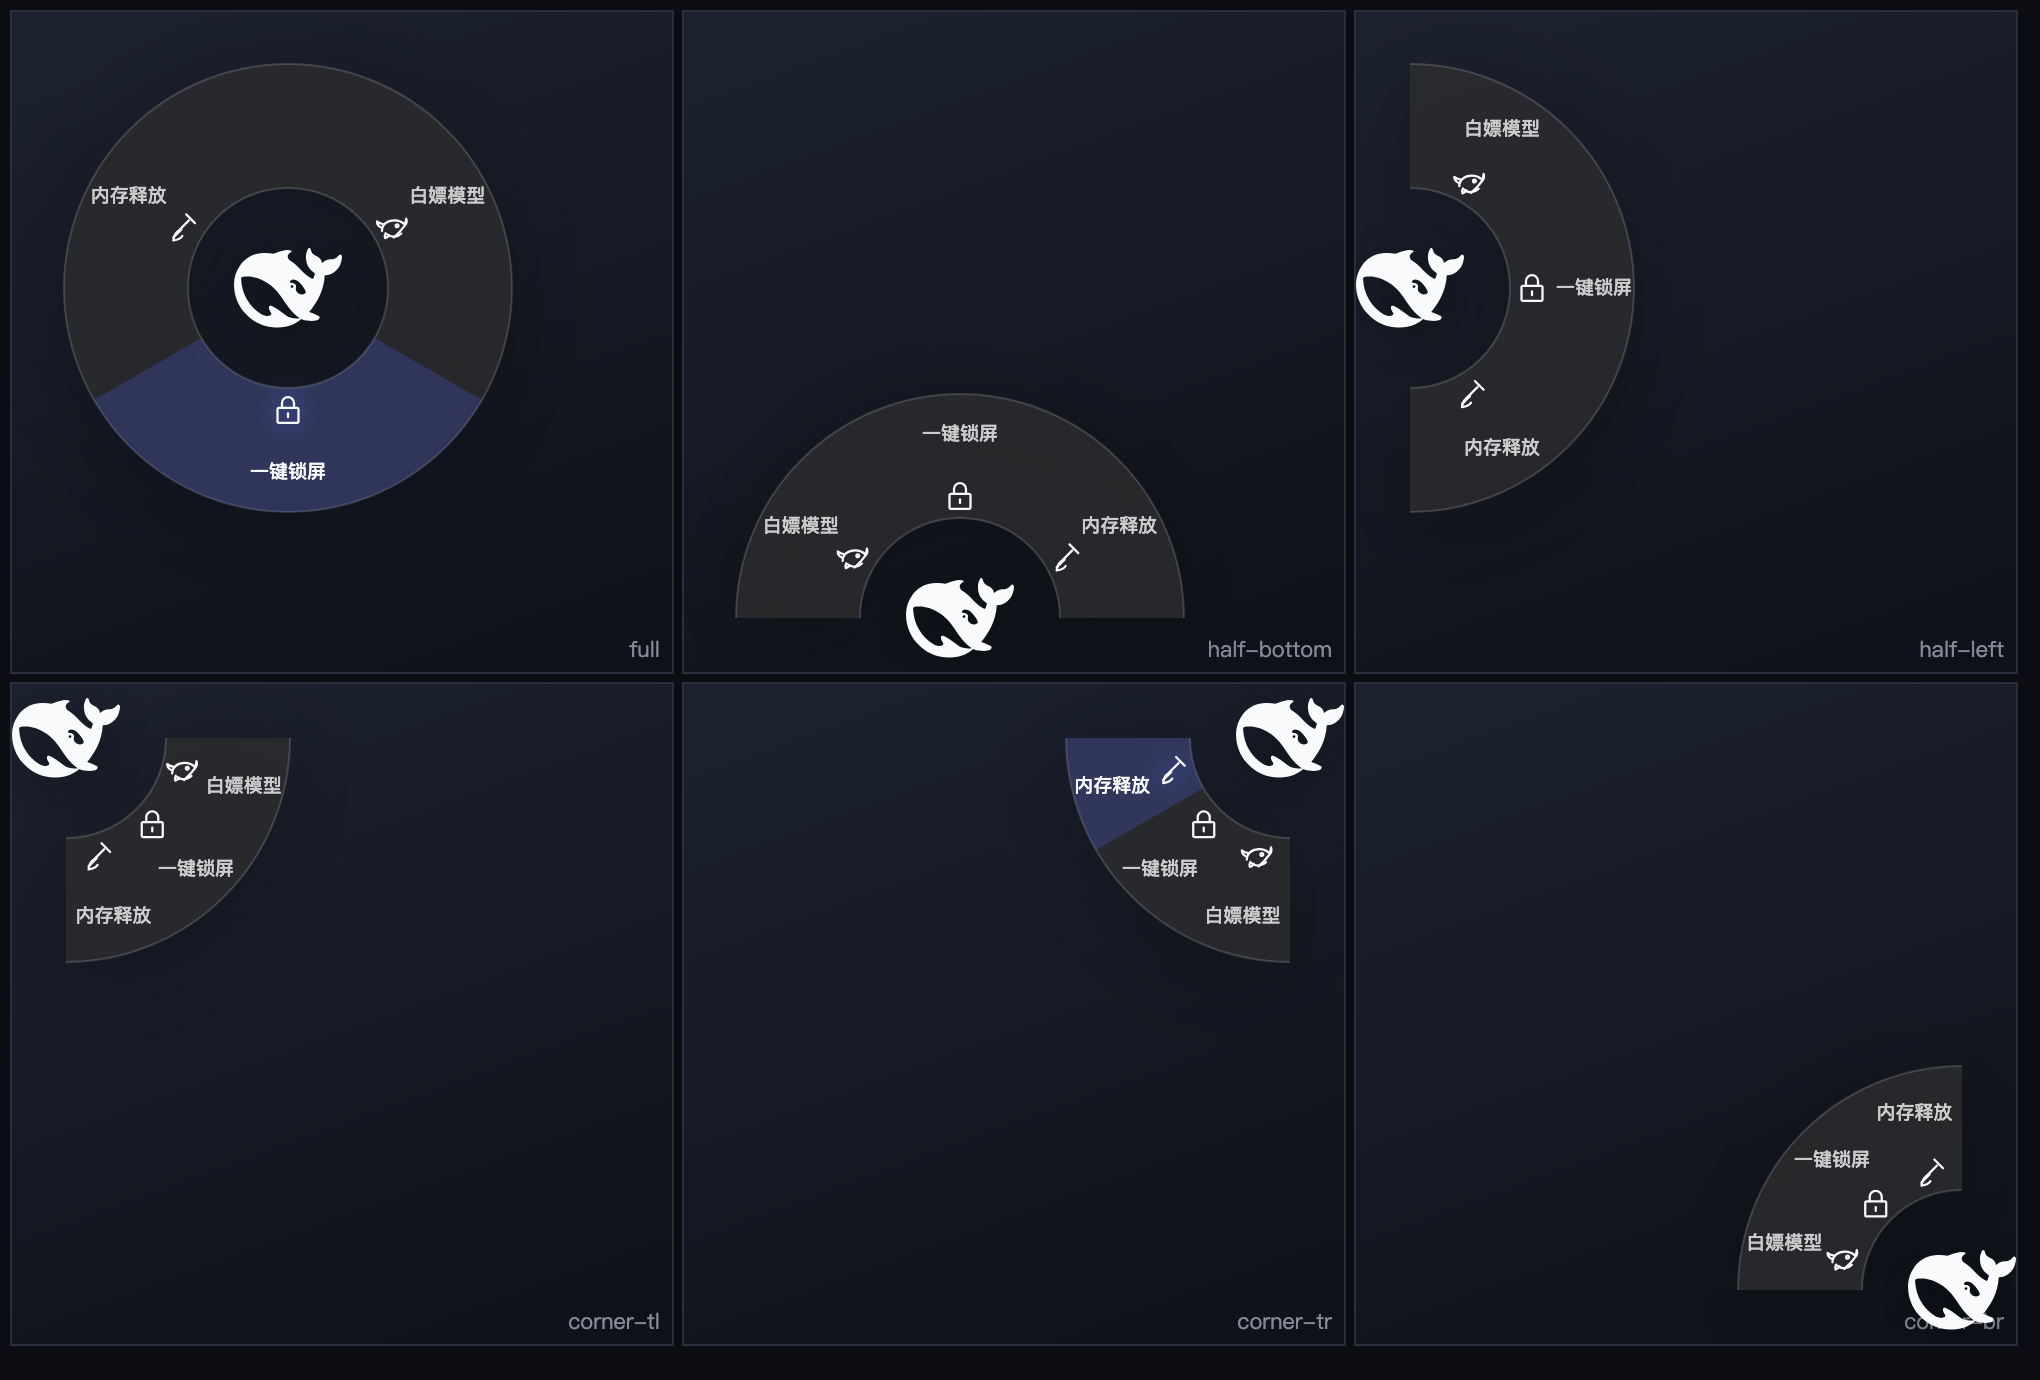
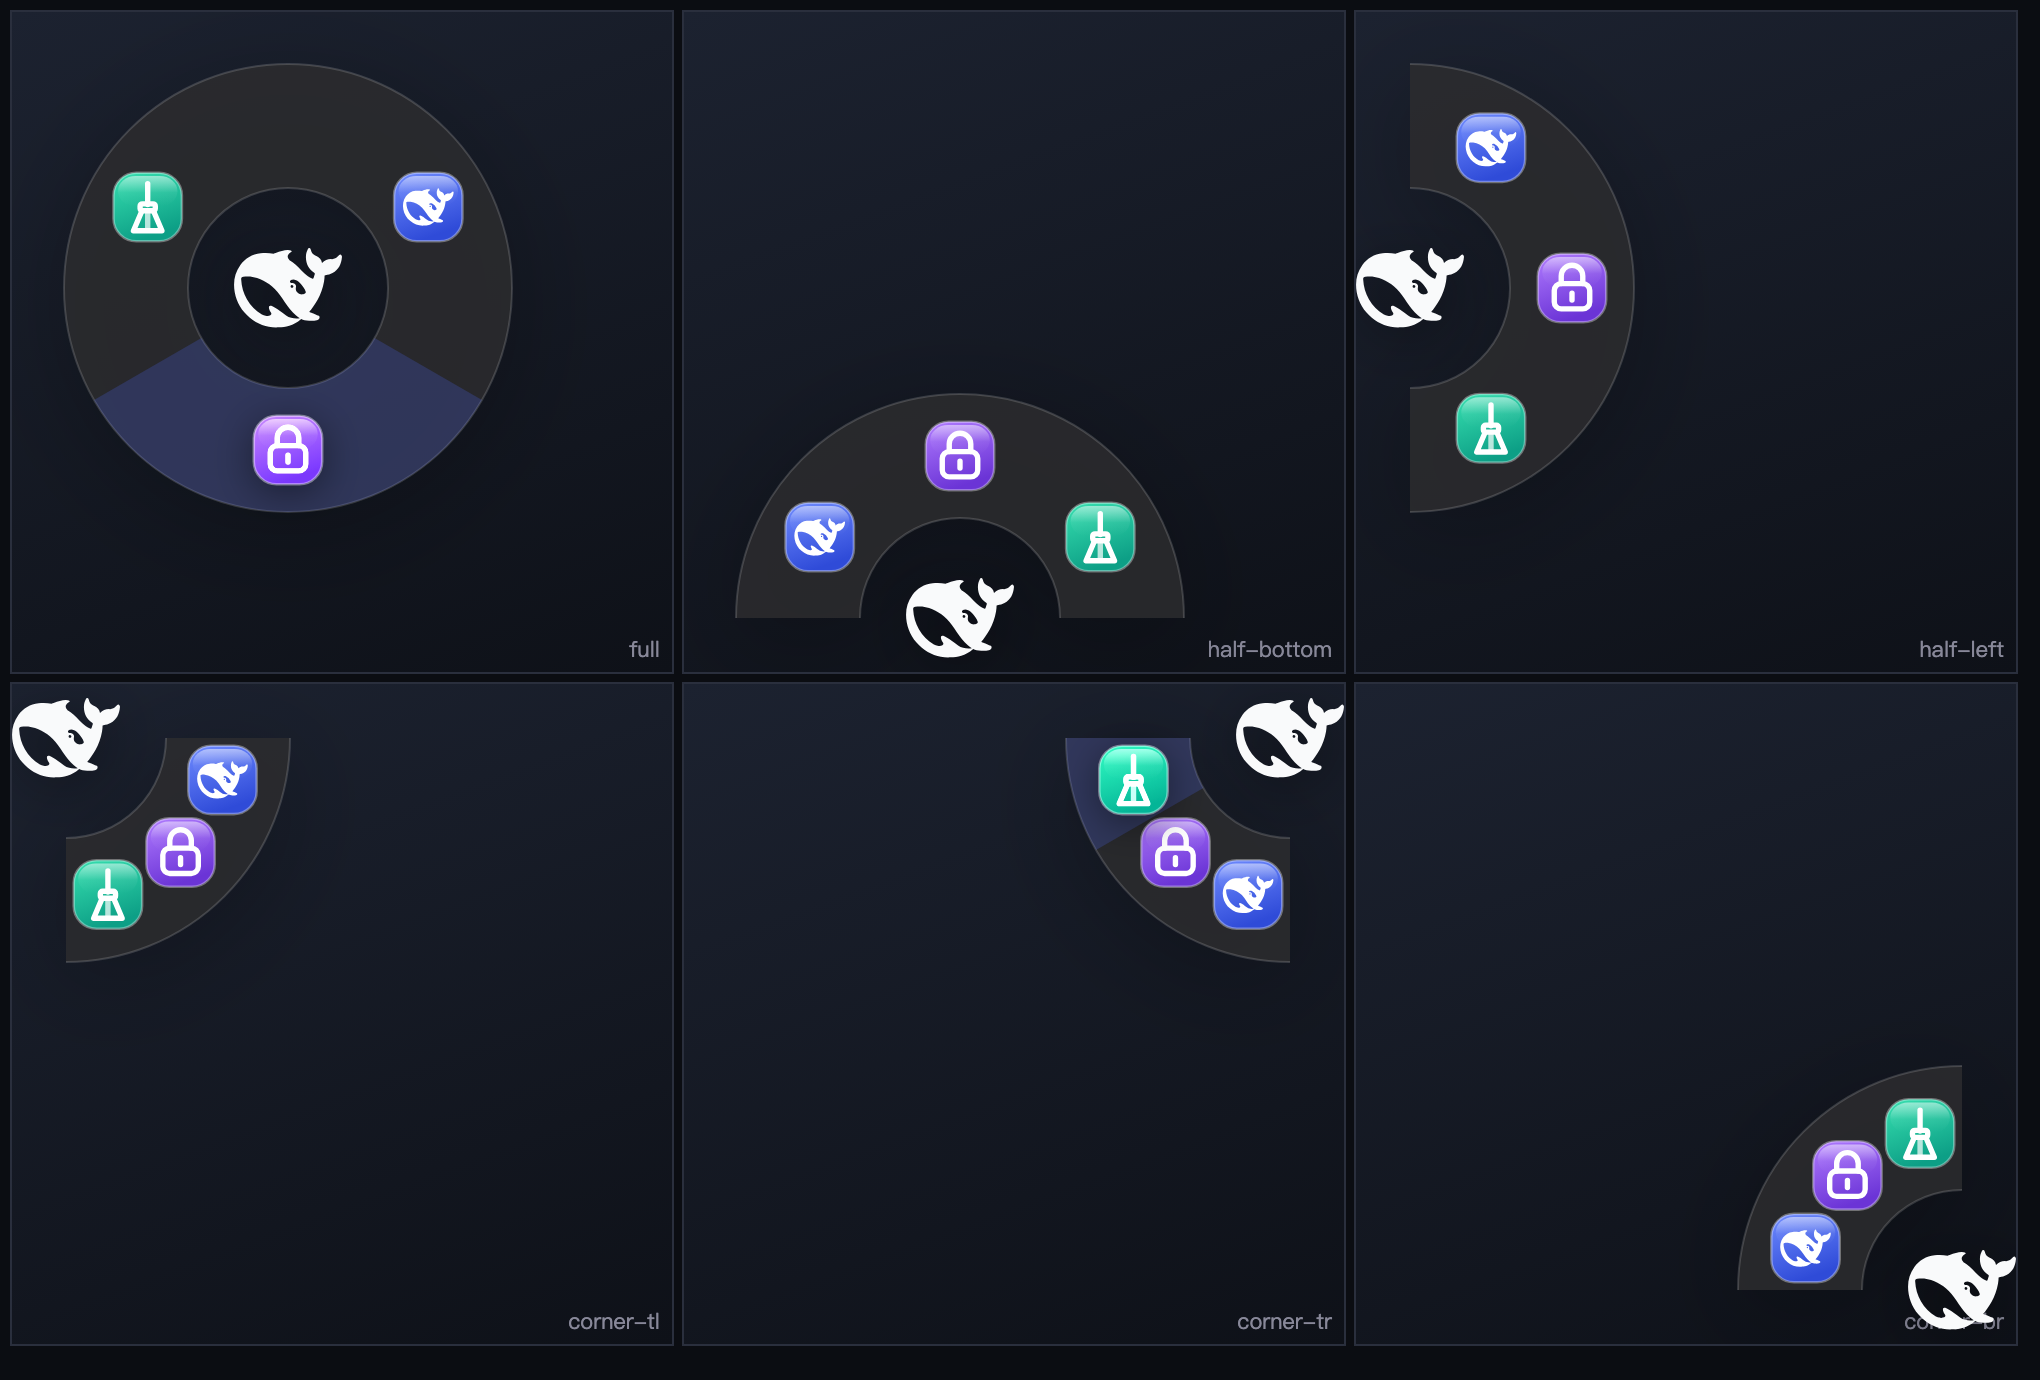
fix: 扫帚图标改为直立的刷头形状，README 同步图标化圆环
- broom：上一版的斜置实心楔形在 38px 上读作光标箭头。改为直立的扫帚——
  手柄、箍、外扩刷头加中间一道缝，一眼是"清扫"。
- README：圆环条目改为"每格一枚彩色玻璃图标（无文字）"，补一条
  "圆环和面板不叠在一起"的悬停规则说明，悬停时序更新为 160ms/700ms。
- docs/ring-states.png 用新图标重新渲染。

diff --git a/client/src/ring/icons.tsx b/client/src/ring/icons.tsx
@@ -99,17 +99,18 @@ const CHIPS: Record<IconName, Chip> = {
     ),
   },
 
-  // 内存释放: a broom. The head is a solid flared trapezoid with the handle
-  // running into it and three bristle tips past its outer edge — a pointed
-  // triangle here reads as a leaf, and a leaf is not "clean".
+  // 内存释放: a broom, standing upright — handle, collar, and a flared brush
+  // with a middle seam. A diagonal solid wedge reads as a cursor arrow, and
+  // a pointed triangle reads as a leaf; neither says "sweep".
   broom: {
     from: '#37e0b0',
     to: '#0d9f86',
     mark: (
       <>
-        <path d="M18.8 5.2 11.8 12.2" {...MARK} />
-        <path d="M9.96 10.36 13.64 14.04 11.37 19.13 4.87 12.63Z" fill="#ffffff" stroke="none" />
-        <path d="M6.17 12.09 4.75 13.51M8.12 14.04 6.7 15.46M10.07 15.99 8.65 17.41" {...MARK} opacity="0.75" />
+        <path d="M12 4.6v6.6" {...MARK} />
+        <rect x="9.6" y="11" width="4.8" height="2.2" rx="0.7" {...MARK} />
+        <path d="M10.1 13.4 7.5 19.5h9L13.9 13.4" {...MARK} />
+        <path d="M12 13.8v5.4" {...MARK} opacity="0.7" />
       </>
     ),
   },

diff --git a/README.md b/README.md
@@ -15,7 +15,7 @@
 | | |
 |---|---|
 | 浮动鲸鱼 | 挂在屏幕任意位置，可拖动，位置记在浏览器本地 |
-| **功能圆环** | 悬停鲸鱼弹出一圈动作，**每格图标 + 文字**，半透明面板色（同对话框）。**贴边自动裁成半圆、贴角裁成四分之一圆**，可见弧上均分 |
+| **功能圆环** | 悬停鲸鱼弹出一圈动作，**每格一枚彩色玻璃图标**（无文字，见图生意），半透明面板色（同对话框）。**贴边自动裁成半圆、贴角裁成四分之一圆**，可见弧上均分 |
 | **白嫖模型** | 圆环第一格：展开厂商表 |
 | **一键锁屏** | 圆环第二格：全屏遮罩，含桌面时钟、天气、系统监控（CPU/内存/网速）、活跃对话 |
 | **内存释放** | 圆环第三格：请宿主回收内存，结果以 toast 回报 |
@@ -26,7 +26,7 @@
 
 ![面板](docs/screenshot.png)
 
-圆环按鲸鱼贴的边自动裁形——整圆、半圆、四分之一圆，每格都是图标 + 名字，
+圆环按鲸鱼贴的边自动裁形——整圆、半圆、四分之一圆，每格一枚具象图标，
 底色与对话框同一块半透明面板：
 
 ![圆环的四种形态](docs/ring-states.png)
@@ -187,7 +187,7 @@ src/store.js            原子写的 JSON store（重启后仍在）
 src/availability.js     逐模型判定缓存（同一个 store，另一份文件）
 client/src/index.tsx    浏览器半边：注册 shell.overlay 槽位、轮询读数、总开关
 client/src/float.tsx   浮标本体：装配圆环 + 卡片 + 锁屏，管拖拽与悬停
-client/src/ring/       功能圆环：geometry.ts 可见弧/扇区命中，icons.tsx 线描图标
+client/src/ring/       功能圆环：geometry.ts 可见弧/扇区命中，icons.tsx 玻璃芯片图标
 client/src/features/   每个功能一个独立模块
   free-model/          白嫖模型：厂商表 vendor-card、数据面 data、探测 probe、
                        扫描计划 sweep、判定 verdicts、状态/开关 use-free-model
@@ -222,15 +222,21 @@ scripts/check.mjs      自检（定位计算、产物形状、开关契约）
 - **拖动**：按住鲸鱼娘拖到任意位置，松手即固定；位置存 `localStorage`，刷新后还在。
   位置会被夹在视口内，换了屏幕尺寸也不会把鲸鱼弄丢。
 - **拖动**：按住鲸鱼拖到任意位置，**可以真正贴边**——不留保留边距，左上能到 0,0，右下能到视口减自身尺寸。位置记在浏览器本地，刷新与重启都在。
-- **悬停**：移上去 140ms 后展开圆环，离开 320ms 后收起。**鲸鱼、圆环、卡片都算悬停区**：
-  指针从鲸鱼移到圆环或卡片、停在卡片里的开关上，都不会把面板关掉。
+- **悬停**：移上去 160ms 后展开圆环，离开 700ms 后收起。**鲸鱼和圆环算悬停区**：
+  指针从鲸鱼移到圆环、停在某个扇区上，都不会把圆环关掉。
+- **圆环和面板不叠在一起**：白嫖面板展开后，指针移到面板上会**直接收起圆环**，
+  面板开着的时候悬停鲸鱼也不再重新弹圆环——之前指针路过鲸鱼去看面板，
+  会在面板背后又变出一圈圆环。面板自己的收起只靠点外部 / Esc / 再点鲸鱼。
 - **圆环只高亮，点击才执行**：悬停到扇区只是高亮，避免鼠标路过就跑了一个耗时操作。
 - **圆环贴边自动裁切**：贴左边时半圆朝**右**延展，贴上边时朝**下**，
   四个角则朝对角方向（左上角 → 右下）。扇区沿**可见弧**均分，不会被画到屏幕外。
 - **圆环是餐桌上的玻璃**：底色与对话框同一块半透明面板（`--dsw-alias-bg-layer-2`），
-  内外两圈细描边；每个扇区**图标在内圈、名字在外圈**，四分之一弧上也放得下。
-- **圆环够大**：外径 224px（原来 132），带宽 62px——图标加文字才装得下；
-  图标在内圈、名字在外圈，四分之一弧上也互不打架。
+  内外两圈细描边；每格是一枚 38px 的彩色玻璃芯片（渐变 + 高光 + 白色具象图形）。
+- **只有图标，没有文字**：圆环不再显示动作名，图形必须自己说话——鲸鱼就是官方
+  标志本身、锁屏是一把挂锁、内存释放是一把扫帚。抽象标记（轨道、地平线）在这个
+  尺寸上认不出来，所以全部改成见图生意的具象图形；动作名保留在悬停的 `title` 里。
+- **圆环够大**：外径 224px（原来 132），带宽 62px——芯片居中在带上，两侧留边，
+  四分之一弧上也放得下。
 - **点击外部关闭**：白嫖模型面板展开后，点页面任意处（含插件 iframe 内的预览）即关闭。
 - **圆环好点得到**：绘制半径与命中半径分开——环画在鲸鱼之外，命中区从鲸鱼边上就开始，
   中途没有死区；收起延迟 700ms 也给足余量。
